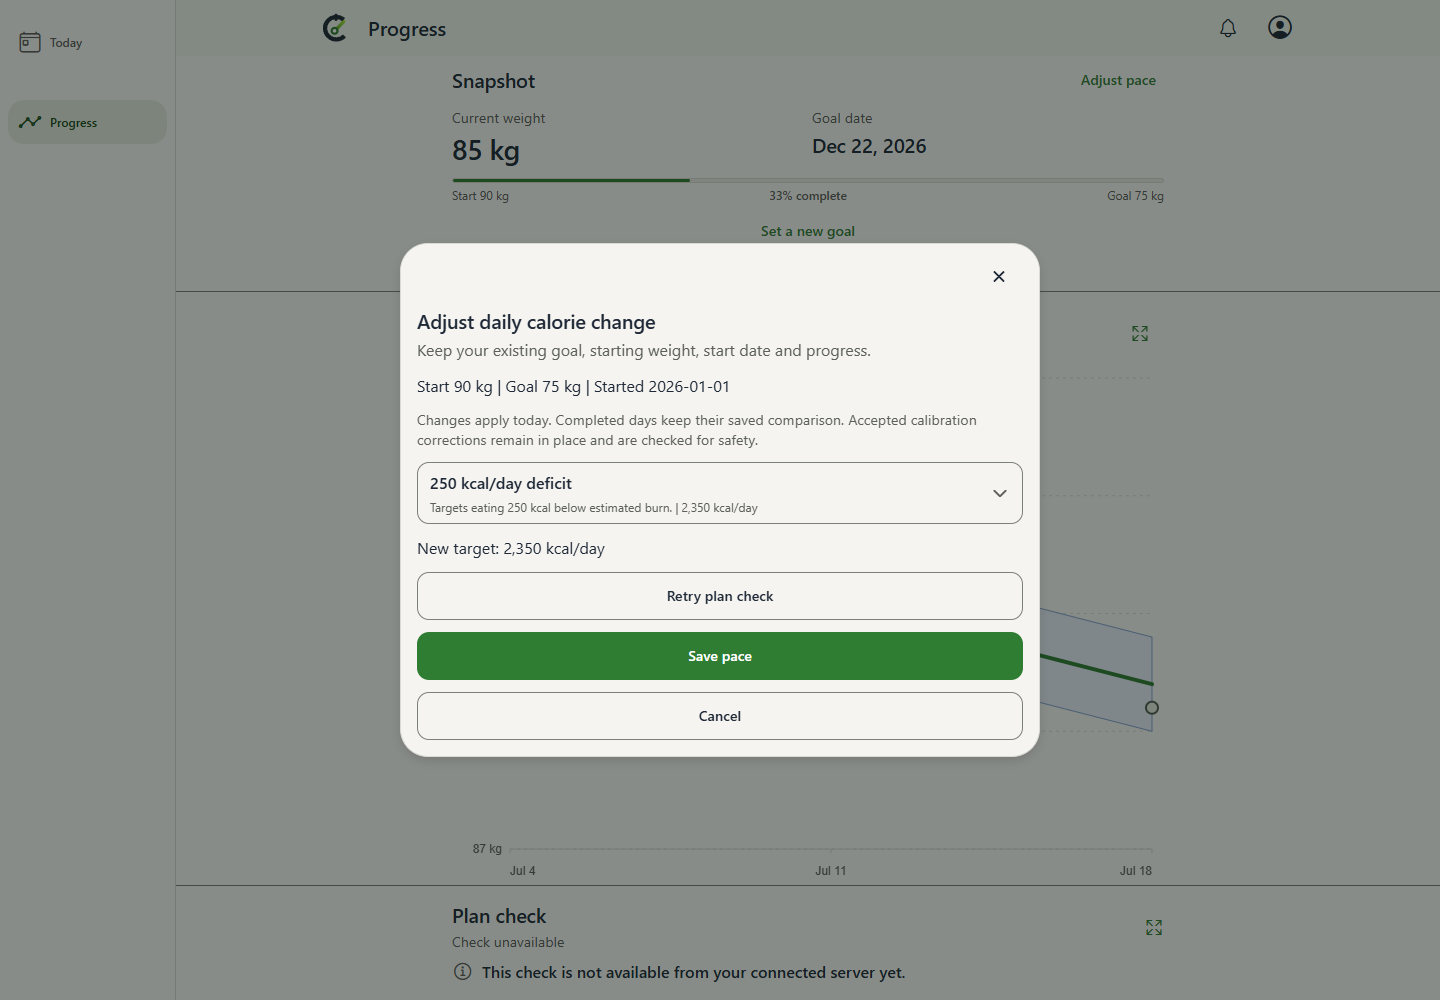
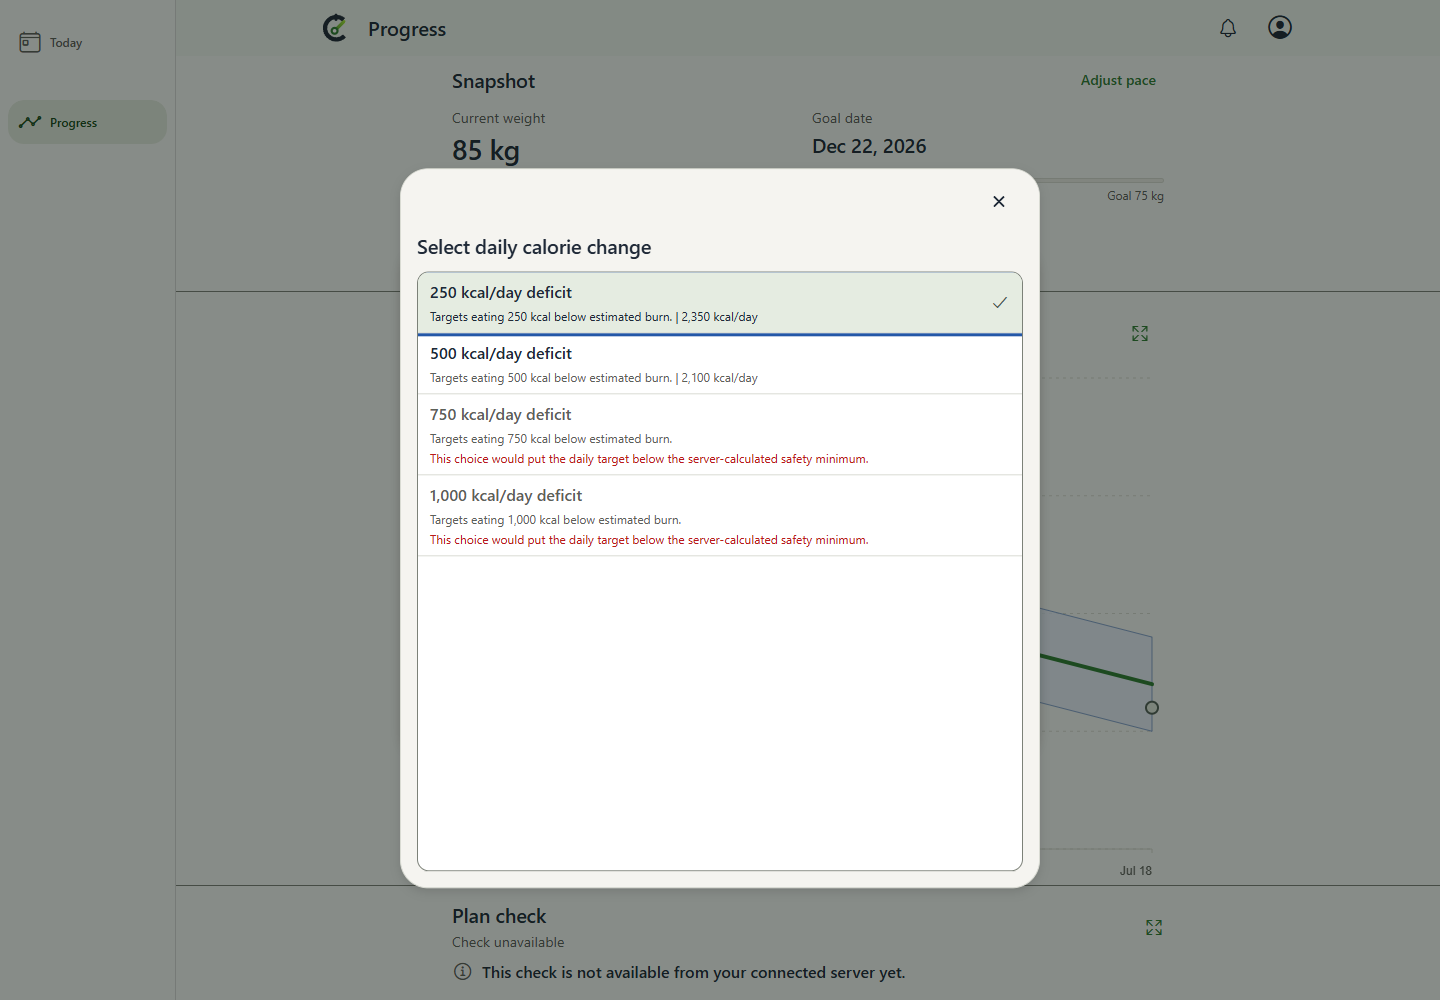
Refresh reviewed pace UI capture provenance

Changed region(s): [[0.25, 0.155, 0.75, 0.558], [0.25, 0.713, 0.75, 0.899], [0.2812, 0.589, 0.7188, 0.682]]

diff --git a/docs/pr-screenshots/issue-409/README.md b/docs/pr-screenshots/issue-409/README.md
@@ -4,7 +4,7 @@ The actual pre-change Progress editor creates a replacement goal when changing p
 
 ## Genuine source comparison
 
-[Matched source evidence and provenance](before-after/README.md) compares actual separately built sources: before `230c31f120d27811228ed566f7dbb0ff6106288a` and after `4cf0867c97d5e94944b3036bf789f00ebd4bf825`. Four matched capture tests passed across desktop light and phone-sized browser dark. Both sources start with goal 7, January 1 start, 90 kg baseline, 75 kg target, current 85 kg, 500 kcal/day deficit and 33% progress. The old editor's save changes identity/start/baseline and yields 0%; the new editor preserves them and yields 33%. Both update the fixture calorie target to 2350 and projected date to May 25, 2027. Response readbacks and screenshot hashes are archived.
+[Matched source evidence and provenance](before-after/README.md) compares actual separately built sources: before `230c31f120d27811228ed566f7dbb0ff6106288a` and after `f500688c379f7e57de273a943972d1e507f7de1d`. Four matched capture tests passed across desktop light and phone-sized browser dark. Both sources start with goal 7, January 1 start, 90 kg baseline, 75 kg target, current 85 kg, 500 kcal/day deficit and 33% progress. The old editor's save changes identity/start/baseline and yields 0%; the new editor preserves them and yields 33%. Both update the fixture calorie target to 2350 and projected date to May 25, 2027. Response readbacks and screenshot hashes are archived.
 
 ## Behavioral flow evidence
 
@@ -24,8 +24,8 @@ Run the repository setup, `npm.cmd --prefix mobile run build:web`, then `npx.cmd
 
 Local live Postgres and native emulator/device execution remain unexecuted. Docker was unresponsive; a repository status command attempted Desktop startup and was interrupted, with no subsequent shared-service recovery. The Database Upgrade CI workflow runs an isolated-schema real Postgres route smoke plus populated upgrade and rollback. Exact-head CI and configured review results are recorded on the PR, not inferred from browser fixtures.
 
-Stack: parent PR #410, pinned `230c31f120d27811228ed566f7dbb0ff6106288a`; base branch `mchartier/completed-calendar-bands`; child `mchartier/goal-pace-continuity`. Review parent first, then #409. Runtime workflow-v3/pr-review-v2 remains pinned `f0919b184b6344d6279178b2388190936ca432a9`, supplemented by the user's explicit blocking matched-before/after amendment. Independent QA is pending; this evidence is not a human-ready verdict.
+Stack: parent PR #410, pinned `230c31f120d27811228ed566f7dbb0ff6106288a`; base branch `mchartier/completed-calendar-bands`; child `mchartier/goal-pace-continuity`. Review parent first, then #409. Execution workflow-v3 remains pinned `f0919b184b6344d6279178b2388190936ca432a9`. The coordinator explicitly adopted [pr-review-v3](https://github.com/MChartier/agentic-workflow/blob/4142ea04082346002639af6cfb1e62fc3cedcd2d/standards/pr-review.md), which was read in full; its definition is still a draft PR. Independent QA is pending; this evidence is not a human-ready verdict.
 
 ## Review follow-up
 
-Configured Codex review identified two valid gaps: goal-creation serialization conflicts needed a structured recoverable response, and account-export pace provenance needed a versioned complete schema. Both are corrected with regression coverage. The database smoke now names its backend-scoped loader `backendRequire`, matching existing repository scripts without weakening Knip or adding dependencies. These follow-ups change backend/export/test plumbing only; the photographed client UI is byte-identical to the recorded after source. Final CI/review identities are recorded on the PR.
+Configured Codex review identified two valid gaps: goal-creation serialization conflicts needed a structured recoverable response, and account-export pace provenance needed a versioned complete schema. Both are corrected with regression coverage. The database smoke now names its backend-scoped loader `backendRequire`, matching existing repository scripts without weakening Knip or adding dependencies. A subsequent same-goal conflict fix resets the stale draft to the authoritative pace before Save is enabled. Its focused component regression passed; all eight browser flows passed again. After captures were refreshed from that final product source; the earlier provenance remains preserved at its original immutable commit. Final CI/review identities are recorded on the PR.

diff --git a/docs/pr-screenshots/issue-409/before-after/README.md b/docs/pr-screenshots/issue-409/before-after/README.md
@@ -3,7 +3,7 @@
 These unedited PNGs show real Chrome on Windows serving production Expo web exports from two exact revisions. The common capture harness supplies identical synthetic starting data and endpoint semantics to both builds. It clicks each revision's actual action. It does not hide new UI to manufacture a baseline or substitute final-state screenshots.
 
 - **Before:** `230c31f120d27811228ed566f7dbb0ff6106288a`, parent PR410, separately checked out and built without product edits.
-- **After:** `4cf0867c97d5e94944b3036bf789f00ebd4bf825`, child409 implementation with parent evidence integrated.
+- **After:** `f500688c379f7e57de273a943972d1e507f7de1d`, child409 implementation with parent evidence integrated.
 - [Manifest](manifest.json): PNG SHA256s, source revisions, browser version, viewport/theme, capture timestamps, final API readbacks, harness/shared-fixture hashes and exported HTML/JS hashes.
 - Harness: `e2e/expo-web/goal-pace-comparison.spec.ts`. Starting goal7 was created January1, start90/target75/current85 kg, deficit500; frozen clock July21 2026, America/Los_Angeles, en-US, reduced motion, scale1.
 - Normalization: the shared `hideTransientPwaNotices` helper suppresses unrelated transient notices on both builds. No comparison content is hidden or modified, and no image is edited. Trend data remains the same synthetic fixture in both builds; this is not a live personal account or native-device run.
